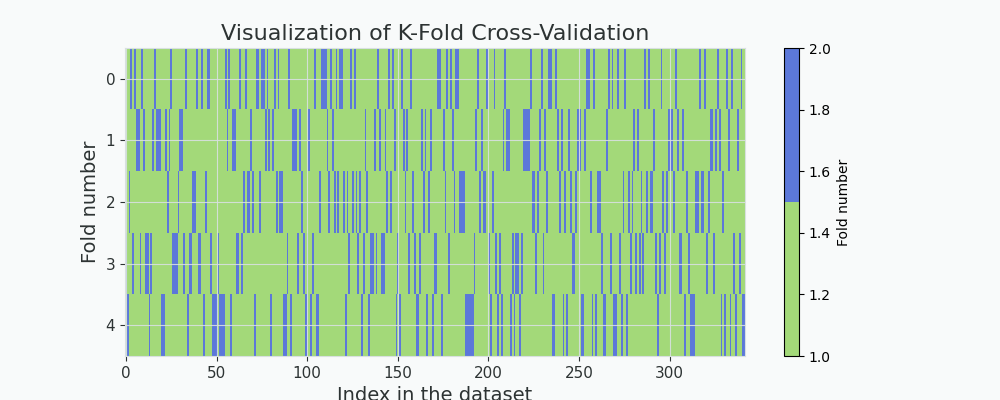
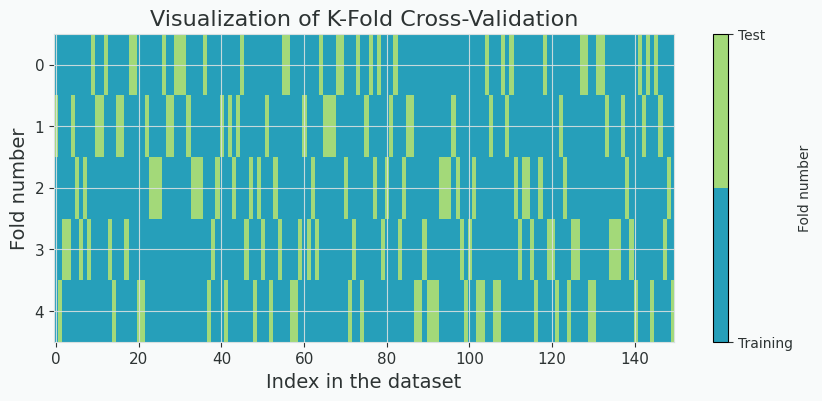
kfold localised and restyled

diff --git a/CCPlots/implementation/KFoldExample.py b/CCPlots/implementation/KFoldExample.py
@@ -2,50 +2,72 @@ import numpy as np
 import matplotlib.pyplot as plt
 from matplotlib.colors import ListedColormap
 from sklearn.model_selection import KFold
-import seaborn as sns
+from sklearn.datasets import make_classification
 
 from CCPlots.PlotExample import PlotExample
 from CCPlots.config import BITROOT_PALETTE, apply_bitroot_style, output_path
 
 
+TEXT_BY_LOCALE = {
+    "en": {
+        "title": "Visualization of K-Fold Cross-Validation",
+        "colorbar": "Fold number",
+        "xlabel": "Index in the dataset",
+        "ylabel": "Fold number",
+        "train": "Training",
+        "test": "Test",
+    },
+    "nl": {
+        "title": "Visualisatie van K-Fold-kruisvalidatie",
+        "colorbar": "Foldnummer",
+        "xlabel": "Index in de dataset",
+        "ylabel": "Foldnummer",
+        "train": "Training",
+        "test": "Test",
+    },
+}
+
+
 class KFoldExample(PlotExample):
 
-    # This example specifically needs a binary colour map
-    colors = [BITROOT_PALETTE['tertiary'], BITROOT_PALETTE['secondary']]
+    colors = [BITROOT_PALETTE['primary'], BITROOT_PALETTE['tertiary']]
 
     def __init__(self):
-        # Initiate the color map
         self.cmap = ListedColormap(self.colors)
 
     def main(self):
-        # Sample dataset
-        df = sns.load_dataset('penguins').dropna(subset=['species'])
-        X = df.drop(['species', 'island', 'sex'], axis=1).dropna()
+        X, _ = make_classification(n_samples=150, n_features=4, n_informative=3,
+                                   n_redundant=0, random_state=42)
 
-        # Initialize KFold cross-validation
         kf = KFold(n_splits=5, shuffle=True, random_state=42)
-
-        # Create an empty array to mark training and testing samples
         n_samples = len(X)
         cv_splits = np.zeros((kf.get_n_splits(), n_samples))
 
-        # Create an empty array to mark training and testing samples
-        n_samples = len(X)
-        cv_splits = np.zeros((kf.get_n_splits(), n_samples))
-
-        # Fill the array with indices
         for i, (train_index, test_index) in enumerate(kf.split(X)):
-            cv_splits[i, train_index] = 1  # Mark training indices as 1
-            cv_splits[i, test_index] = 2  # Mark test indices as 2
+            cv_splits[i, train_index] = 1
+            cv_splits[i, test_index] = 2
 
-        # Plot the K-Fold cross-validation splits
-        plt.figure(figsize=(10, 4), facecolor=BITROOT_PALETTE['background'])
-        ax = plt.gca()
-        ax.set_facecolor(BITROOT_PALETTE['background'])
-        plt.imshow(cv_splits, aspect='auto', cmap=self.cmap, interpolation='nearest')
-        plt.colorbar(label='Fold number')
-        plt.xlabel('Index in the dataset', color=BITROOT_PALETTE['text'])
-        plt.ylabel('Fold number', color=BITROOT_PALETTE['text'])
-        plt.title('Visualization of K-Fold Cross-Validation', color=BITROOT_PALETTE['text'])
-        apply_bitroot_style(ax)
-        plt.savefig(output_path("kfold_validation.png"))
+        for locale, labels in (("en", TEXT_BY_LOCALE["en"]), ("nl", TEXT_BY_LOCALE["nl"])):
+            fname = f"kfold_validation{'_NL' if locale == 'nl' else ''}.png"
+
+            fig, ax = plt.subplots(figsize=(10, 4), facecolor=BITROOT_PALETTE['background'])
+            ax.set_facecolor(BITROOT_PALETTE['background'])
+
+            im = ax.imshow(cv_splits, aspect='auto', cmap=self.cmap, interpolation='nearest')
+
+            cbar = plt.colorbar(im, ax=ax, ticks=[1, 2])
+            cbar.ax.set_yticklabels([labels['train'], labels['test']])
+            cbar.set_label(labels['colorbar'], color=BITROOT_PALETTE['text'])
+            cbar.ax.tick_params(colors=BITROOT_PALETTE['text'])
+
+            ax.set_xlabel(labels['xlabel'], color=BITROOT_PALETTE['text'])
+            ax.set_ylabel(labels['ylabel'], color=BITROOT_PALETTE['text'])
+            ax.set_title(labels['title'], color=BITROOT_PALETTE['text'])
+
+            apply_bitroot_style(ax)
+            fig.savefig(output_path(fname), bbox_inches='tight', pad_inches=0.1)
+            plt.close(fig)
+
+
+if __name__ == "__main__":
+    KFoldExample().main()
